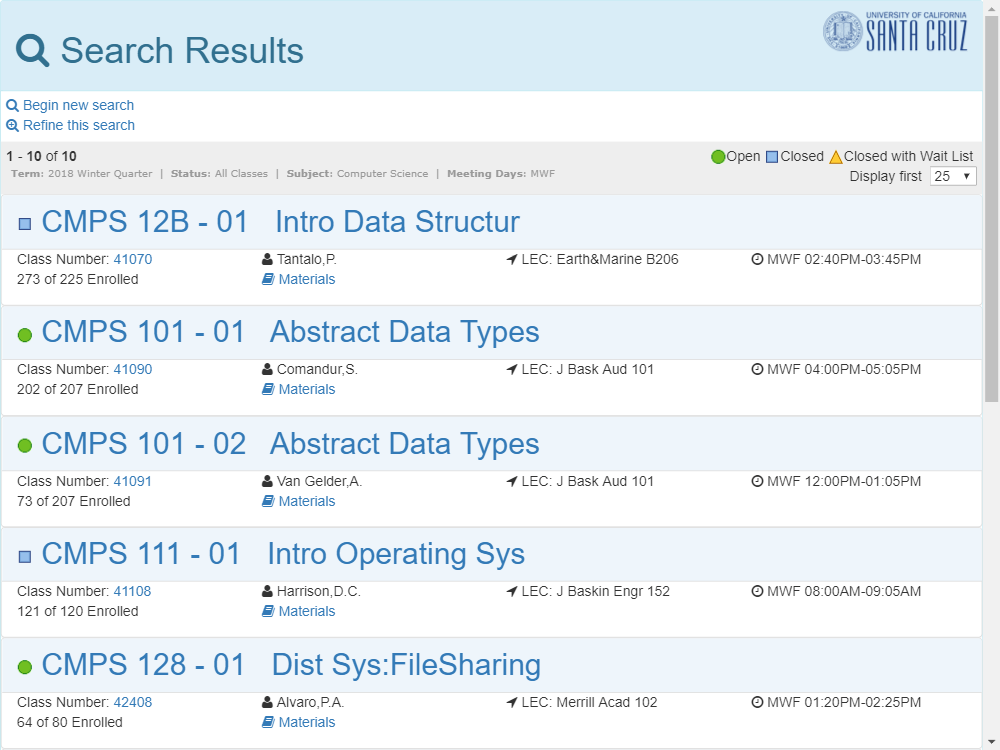
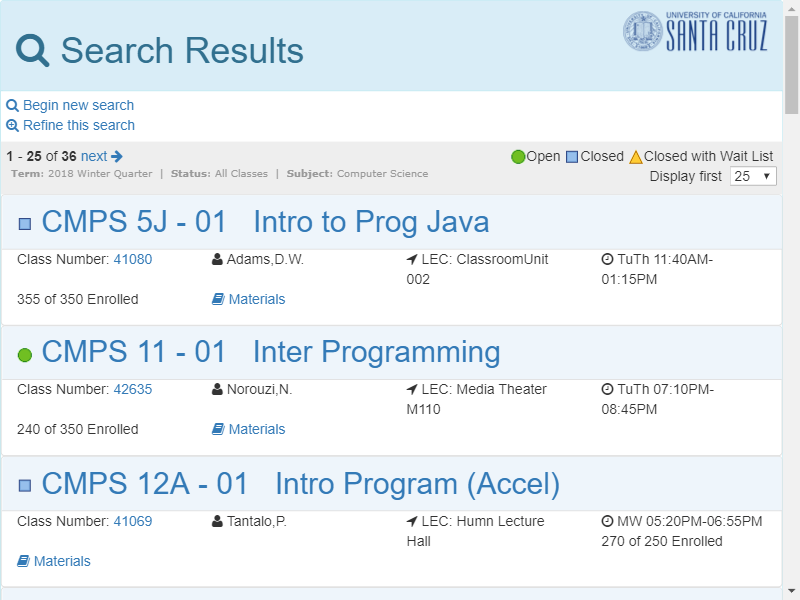
Returning data of courses, needs work

diff --git a/index.js b/index.js
@@ -24,9 +24,11 @@ const run = async () => {
 
   const page = await browser.newPage();
 
-  await page.goto("https://pisa.ucsc.edu/class_search/index.php");
+  await page.goto("https://pisa.ucsc.edu/class_search/index.php", {
+    waitUntil: "networkidle0"
+  });
 
-  // Selectors
+  // Search --- Selectors
   const TERMS = "#term_dropdown";
   await page.select(TERMS, "2180");
 
@@ -36,13 +38,46 @@ const run = async () => {
   const SUBJECTS = "#subject";
   await page.select(SUBJECTS, "CMPS");
 
-  const DAYS = "#Days";
-  await page.select(DAYS, "MWF");
-
   const SUBMIT = ".btn.btn-lg.btn-primary.btn-block";
   await page.click(SUBMIT);
+  await page.waitForSelector(".panel-body");
 
-  await page.waitForNavigation();
+  const COURSE_LIST = ".panel.panel-default.row";
+  let header = await page.evaluate(() => {
+    let result = [];
+    let items = document.querySelectorAll(
+      ".panel-heading.panel-heading-custom > h2"
+    );
+    items.forEach(item => {
+      result.push({
+        title: item.querySelector("a").innerText,
+        status: item.querySelector("span").innerText,
+        url: item.querySelector("a").getAttribute("href")
+      });
+    });
+
+    return result;
+  });
+
+  console.log(header);
+
+  let body = await page.evaluate(() => {
+    let result = [];
+    let items = document.querySelectorAll(
+      ".panel.panel-default.row > div.panel-body > div.row"
+    );
+    items.forEach(item => {
+      result.push({
+        info: document.querySelectorAll(".col-xs-6.col-sm-3").innerText
+      });
+    });
+
+    return result;
+  });
+
+  console.log(body);
+
+  await browser.close();
 };
 
 run();
